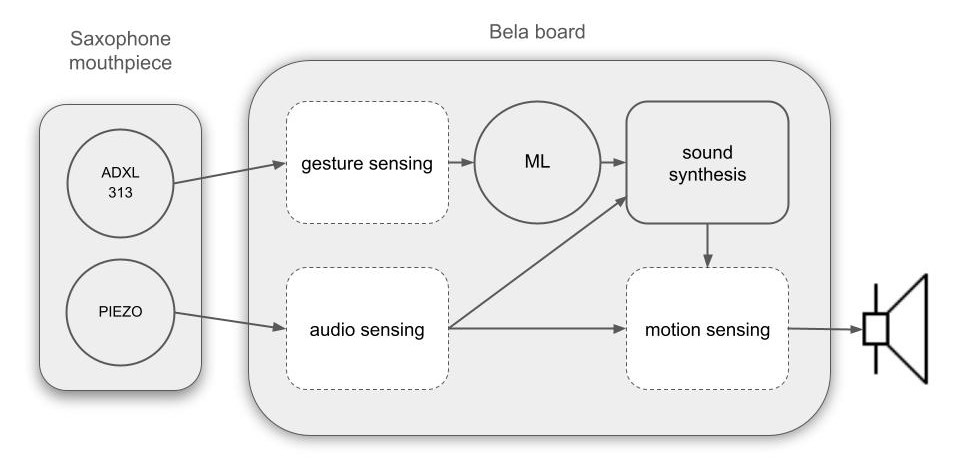
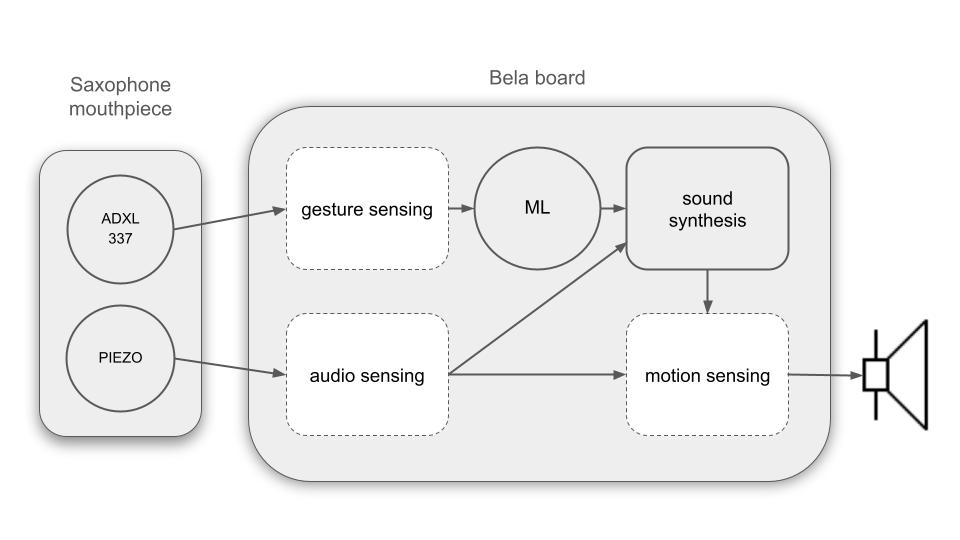
Change ADXL337

diff --git a/README.md b/README.md
@@ -22,7 +22,7 @@ played on the instrument.
 using machine learning.
 3. Motion sensing for demonstrating gestural virtuosity.
 
-Sensing objectives are achieved through the use of a [contact microphone](https://www.farnell.com/datasheets/3123697.pdf) and an [ADXL313](https://www.analog.com/media/en/technical-documentation/data-sheets/adxl313.pdf) 3-axis digital accelerometer, positioned one on top of the other on the upper part of the saxophone’s mouthpiece. Sensing data is processed using the visual programming language [Pure Data](http://puredata.info/) (version 0.52.1) and runs on a [Bela board](https://learn.bela.io/products/bela-boards/bela/). 
+Sensing objectives are achieved through the use of a [contact microphone](https://www.farnell.com/datasheets/3123697.pdf) and an [ADXL337](https://www.analog.com/media/en/technical-documentation/data-sheets/ADXL337.pdf) 3-axis digital accelerometer, positioned one on top of the other on the upper part of the saxophone’s mouthpiece. Sensing data is processed using the visual programming language [Pure Data](http://puredata.info/) (version 0.52.1) and runs on a [Bela board](https://learn.bela.io/products/bela-boards/bela/). 
 
 A functional diagram of the Saxelerophone with its electronic components and how they are connected is presented in Figure 2.
 
